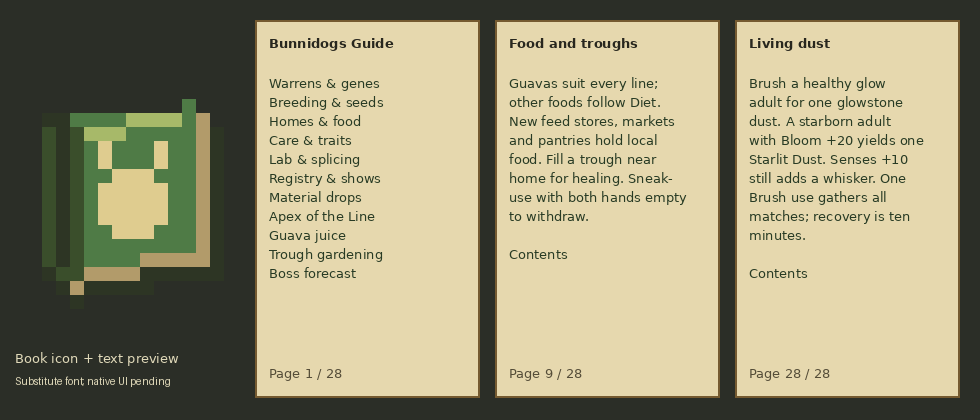
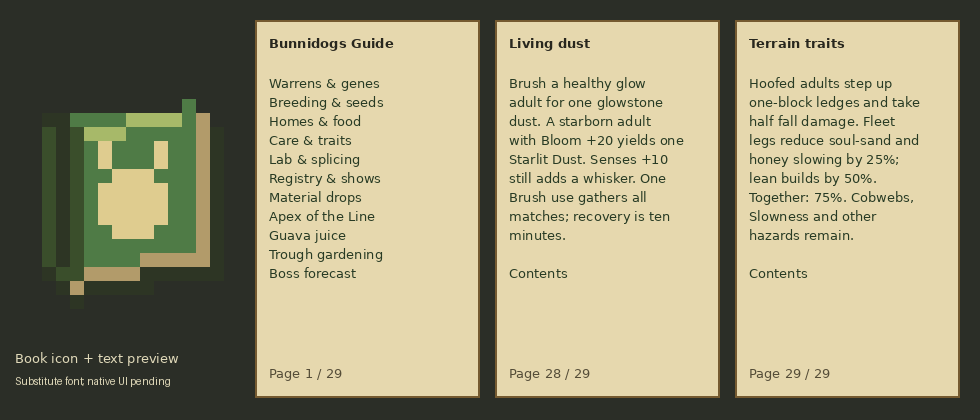
Add inherited stepping and slow-terrain benefits

diff --git a/tools/gametest/java/com/bunnidogs/mod/entity/AdaptationsGameTest.java b/tools/gametest/java/com/bunnidogs/mod/entity/AdaptationsGameTest.java
@@ -7,10 +7,14 @@ import com.bunnidogs.mod.genetics.Stats;
 import com.bunnidogs.mod.genetics.Adaptations;
 import com.bunnidogs.mod.registry.ModEntities;
 import net.minecraft.gametest.framework.GameTestHelper;
+import net.minecraft.core.BlockPos;
+import net.minecraft.server.level.ServerLevel;
 import net.minecraft.world.effect.MobEffectInstance;
 import net.minecraft.world.effect.MobEffects;
 import net.minecraft.world.entity.ai.attributes.Attributes;
 import net.minecraft.world.entity.EntitySpawnReason;
+import net.minecraft.world.entity.MoverType;
+import net.minecraft.world.level.block.Blocks;
 import net.minecraft.util.ProblemReporter;
 import net.minecraft.world.level.storage.TagValueInput;
 import net.minecraft.world.level.storage.TagValueOutput;
@@ -28,6 +32,7 @@ public final class AdaptationsGameTest {
         return dog;
     }
     public static void run(GameTestHelper h) {
+        terrain(h);
         var level = h.getLevel();
         var normal = dog(h,Genome.DEFAULT,1);
         var ember = dog(h,with(Gene.COAT,"ember"),2);
@@ -125,5 +130,65 @@ public final class AdaptationsGameTest {
                 && !Adaptations.luminous(Genome.DEFAULT.with(Gene.COAT,0,glowId)),"Recessive glow requires visible expression");
         h.assertTrue(Plain.effect(Gene.COAT,Gene.COAT.alleleNamed("slate")).contains("armor")
                 && Plain.effect(Gene.BUILD,Gene.BUILD.alleleNamed("chonker")).contains("knockback"),"Readouts must explain inherited physical defenses");
+    }
+    /** Exposes the native protected speed-factor calculation, without a production-only testing API. */
+    private static final class TerrainProbe extends Bunnidog {
+        TerrainProbe(ServerLevel level) { super(ModEntities.BUNNIDOG.get(),level); this.setNoAi(true); this.setAge(0); }
+        float speedFactor() { return this.getBlockSpeedFactor(); }
+    }
+    private static void terrain(GameTestHelper h) {
+        var level = h.getLevel();
+        for (int x = 0; x < 8; x++) for (int z = 0; z < 8; z++) h.setBlock(x,0,z,Blocks.STONE);
+        h.setBlock(4,1,3,Blocks.STONE); h.setBlock(4,1,4,Blocks.STONE);
+        var start = h.absoluteVec(new Vec3(3.2,1,3.5));
+        var probe = new TerrainProbe(level);
+        probe.setGenome(Genome.DEFAULT); probe.setStats(Stats.ZERO);
+        probe.setPos(start); probe.setOnGround(true);
+        probe.move(MoverType.SELF,new Vec3(1,0,0));
+        h.assertTrue(Math.abs(probe.getY()-start.y) < .001 && probe.getX() < start.x+.8,
+                "Ordinary step height must not walk straight up a full ledge");
+        probe.setGenome(with(Gene.LEGS,"hoofed")); probe.setPos(start); probe.setOnGround(true);
+        probe.move(MoverType.SELF,new Vec3(1,0,0));
+        h.assertTrue(Math.abs(probe.getY()-start.y-1) < .001 && probe.getX() > start.x+.9,
+                "Expressed hoofed legs must step up a real one-block collision without jumping");
+        probe.setGenome(with(Gene.LEGS,"springy").with(Gene.LEGS,1,Gene.LEGS.alleleNamed("hoofed").id()));
+        probe.setPos(start); probe.setOnGround(true); probe.move(MoverType.SELF,new Vec3(1,0,0));
+        h.assertTrue(Math.abs(probe.getY()-start.y) < .001,"Hidden hoofed legs must not retain their step bonus");
+        var slowPos = h.absolutePos(new BlockPos(2,0,5));
+        probe.setPos(Vec3.atBottomCenterOf(slowPos.above())); probe.setOnGround(true);
+        var leanFleet = with(Gene.BUILD,"lean").with(Gene.LEGS,0,Gene.LEGS.alleleNamed("fleet").id())
+                .with(Gene.LEGS,1,Gene.LEGS.alleleNamed("fleet").id());
+        for (var block : new net.minecraft.world.level.block.Block[]{Blocks.SOUL_SAND,Blocks.HONEY_BLOCK}) {
+            level.setBlock(slowPos,block.defaultBlockState(),2);
+            probe.setGenome(Genome.DEFAULT);
+            h.assertTrue(Math.abs(probe.speedFactor()-.4) < .001,"Ordinary bodies must retain native slow-block movement");
+            probe.setGenome(with(Gene.LEGS,"fleet"));
+            h.assertTrue(Math.abs(probe.speedFactor()-.55) < .001,"Fleet legs must reduce native slow-block loss by one quarter");
+            probe.setGenome(with(Gene.BUILD,"lean"));
+            h.assertTrue(Math.abs(probe.speedFactor()-.7) < .001,"Lean bodies must halve native slow-block loss");
+            probe.setGenome(leanFleet);
+            h.assertTrue(Math.abs(probe.speedFactor()-.85) < .001,"Independent terrain traits must combine without full immunity");
+        }
+        h.assertTrue(probe.addEffect(new MobEffectInstance(MobEffects.SLOWNESS,100)),"Terrain benefits must retain potion Slowness");
+        probe.getAttribute(Attributes.STEP_HEIGHT).setBaseValue(.8);
+        probe.getAttribute(Attributes.MOVEMENT_EFFICIENCY).setBaseValue(.1);
+        probe.setGenome(with(Gene.LEGS,"hoofed").with(Gene.BUILD,0,Gene.BUILD.alleleNamed("lean").id())
+                .with(Gene.BUILD,1,Gene.BUILD.alleleNamed("lean").id()));
+        for (int i = 0; i < 2; i++) {
+            var out = TagValueOutput.createWithContext(ProblemReporter.DISCARDING,level.registryAccess());
+            probe.saveWithoutId(out);
+            var loaded = new TerrainProbe(level);
+            loaded.load(TagValueInput.create(ProblemReporter.DISCARDING,level.registryAccess(),out.buildResult()));
+            h.assertTrue(Math.abs(loaded.getAttributeValue(Attributes.STEP_HEIGHT)-1.2) < .001
+                    && Math.abs(loaded.getAttributeValue(Attributes.MOVEMENT_EFFICIENCY)-.6) < .001,
+                    "Terrain modifiers must restore once alongside external bases");
+            probe = loaded;
+        }
+        probe.setGenome(Genome.DEFAULT);
+        h.assertTrue(Math.abs(probe.getAttributeValue(Attributes.STEP_HEIGHT)-.8) < .001
+                && Math.abs(probe.getAttributeValue(Attributes.MOVEMENT_EFFICIENCY)-.1) < .001,
+                "Gene edits must remove only inherited terrain modifiers");
+        // Leave the rest of the established adaptation case's spawn lane clear.
+        h.setBlock(4,1,3,Blocks.AIR); h.setBlock(4,1,4,Blocks.AIR);
     }
 }

diff --git a/src/main/java/com/bunnidogs/mod/entity/Bunnidog.java b/src/main/java/com/bunnidogs/mod/entity/Bunnidog.java
@@ -121,6 +121,8 @@ import net.minecraft.world.phys.Vec3;
 public class Bunnidog extends Animal implements net.neoforged.neoforge.common.IShearable {
     private static final Identifier TRAIT_ARMOR = Identifier.fromNamespaceAndPath("bunnidogs","inherited_armor");
     private static final Identifier TRAIT_KNOCKBACK = Identifier.fromNamespaceAndPath("bunnidogs","inherited_knockback_resistance");
+    private static final Identifier TRAIT_STEP = Identifier.fromNamespaceAndPath("bunnidogs","inherited_step_height");
+    private static final Identifier TRAIT_TERRAIN = Identifier.fromNamespaceAndPath("bunnidogs","inherited_movement_efficiency");
     // Base stats of an "average" bunnidog; the genes scale these (see Traits multipliers).
     public static final double BASE_HEALTH = 8.0D;
     public static final double BASE_SPEED = 0.25D;
@@ -288,7 +290,7 @@ public class Bunnidog extends Animal implements net.neoforged.neoforge.common.IS
         setBase(Attributes.MOVEMENT_SPEED, BASE_SPEED * t.speedMultiplier() * st.multiplier(Stat.SWIFTNESS));
         setBase(Attributes.JUMP_STRENGTH, BASE_JUMP * t.jumpMultiplier() * st.multiplier(Stat.LEAP));
         setBase(Attributes.FOLLOW_RANGE, BASE_FOLLOW_RANGE * t.hearingMultiplier() * st.multiplier(Stat.SENSES));
-        this.applyDefences();
+        this.applyAdaptations();
         this.setHealth(this.getMaxHealth() * fraction);
     }
 
@@ -300,11 +302,13 @@ public class Bunnidog extends Animal implements net.neoforged.neoforge.common.IS
     }
 
     /** Transient named modifiers preserve other mods' base values/equipment and cannot accumulate across reloads. */
-    protected final void applyDefences() {
-        this.defence(Attributes.ARMOR,TRAIT_ARMOR,Adaptations.armor(this.genome()));
-        this.defence(Attributes.KNOCKBACK_RESISTANCE,TRAIT_KNOCKBACK,Adaptations.knockbackResistance(this.genome()));
+    protected final void applyAdaptations() {
+        this.inheritedBonus(Attributes.ARMOR,TRAIT_ARMOR,Adaptations.armor(this.genome()));
+        this.inheritedBonus(Attributes.KNOCKBACK_RESISTANCE,TRAIT_KNOCKBACK,Adaptations.knockbackResistance(this.genome()));
+        this.inheritedBonus(Attributes.STEP_HEIGHT,TRAIT_STEP,Adaptations.stepBonus(this.genome()));
+        this.inheritedBonus(Attributes.MOVEMENT_EFFICIENCY,TRAIT_TERRAIN,Adaptations.movementEfficiency(this.genome()));
     }
-    private void defence(Holder<Attribute> attribute, Identifier id, double amount) {
+    private void inheritedBonus(Holder<Attribute> attribute, Identifier id, double amount) {
         var value = this.getAttribute(attribute);
         if (value == null) return;
         if (amount == 0) value.removeModifier(id);
@@ -746,7 +750,7 @@ public class Bunnidog extends Animal implements net.neoforged.neoforge.common.IS
         // Phase 5d: a save from before it, or an untagged bunnidog, has no tag. (The name shown above it is vanilla's own saved CustomName.)
         this.earTag = EarTag.parse(input.getStringOr(TAG_EAR_TAG, "")).orElse(null);
         super.readAdditionalSaveData(input);
-        if (!this.level().isClientSide()) this.applyDefences();
+        if (!this.level().isClientSide()) this.applyAdaptations();
         this.highestShowAward = Math.max(0, input.getIntOr("ShowAward", 0));
         this.nextGardenTick = this.level().getGameTime()+Math.clamp(input.getIntOr("GardenWait",0),0,
                 com.bunnidogs.mod.genetics.Gardening.REST_TICKS);

diff --git a/src/main/java/com/bunnidogs/mod/genetics/Adaptations.java b/src/main/java/com/bunnidogs/mod/genetics/Adaptations.java
@@ -15,6 +15,11 @@ public final class Adaptations {
     public static double knockbackResistance(Genome genome) {
         return switch (genome.expressed(Gene.BUILD).name()) { case "stocky" -> .15; case "chonker" -> .3; default -> 0; };
     }
+    public static double stepBonus(Genome genome) { return genome.expressed(Gene.LEGS).name().equals("hoofed") ? .4 : 0; }
+    public static double movementEfficiency(Genome genome) {
+        return (genome.expressed(Gene.LEGS).name().equals("fleet") ? .25 : 0)
+                + (genome.expressed(Gene.BUILD).name().equals("lean") ? .5 : 0);
+    }
     public static boolean luminous(Genome genome) { return genome.expressed(Gene.COAT).name().equals("glow"); }
     public static int blockLight(Genome genome, int environmental) { return luminous(genome) ? 15 : environmental; }
     public static String explanation(Gene gene, Allele allele) {
@@ -26,7 +31,9 @@ public final class Adaptations {
         if (gene == Gene.COAT && allele.name().equals("moss")) return "Immune to poison, but not wither or other magic.";
         if (gene == Gene.COAT && allele.name().equals("sand")) return "Immune to cactus damage; other thorns still hurt.";
         if (gene == Gene.COAT && allele.name().equals("void")) return "Immune to levitation; shulker impacts and falls still hurt.";
-        if (gene == Gene.LEGS && allele.name().equals("hoofed")) return "Takes half the usual fall damage.";
+        if (gene == Gene.LEGS && allele.name().equals("hoofed")) return "Takes half the usual fall damage. Adds 0.4 step height, letting ordinary adults walk up one-block ledges.";
+        if (gene == Gene.LEGS && allele.name().equals("fleet")) return "Reduces slowing from soul sand and honey by 25%; combines with lean build.";
+        if (gene == Gene.BUILD && allele.name().equals("lean")) return "Halves slowing from soul sand and honey; combines with fleet legs. Does not prevent cobwebs or Slowness.";
         if (gene == Gene.COAT && allele.name().equals("slate")) return "+4 natural armor against ordinary attacks; armor-bypassing damage still hurts.";
         if (gene == Gene.COAT && allele.name().equals("glow")) return "Self-lit coat in darkness; does not light nearby blocks. Brush healthy adults for one glowstone dust every ten minutes.";
         if (gene == Gene.BUILD && allele.name().equals("stocky")) return "+15% knockback resistance.";

diff --git a/art/gen_guide.py b/art/gen_guide.py
@@ -32,6 +32,7 @@ PAGES = {
     26: ('Furnished warrens', 'New dens have a trough with two guavas. Levels 3-5 have a central bell. New farms fit an empty enabled corner trough for matching crops. Crafted and old troughs need a hoe to enable work.'),
     27: ('Before the Apex', 'Hold Calipers in the main hand and a Tissue Sample in the other. Use an Apex Crucible for health, attacks and defenses. Empty-hand use lists missing offerings. Reading spends nothing.'),
     28: ('Living dust', 'Brush a healthy glow adult for one glowstone dust. A starborn adult with Bloom +20 yields one Starlit Dust. Senses +10 still adds a whisker. One Brush use gathers all matches; recovery is ten minutes.'),
+    29: ('Terrain traits', 'Hoofed adults step up one-block ledges and take half fall damage. Fleet legs reduce soul-sand and honey slowing by 25%; lean builds by 50%. Together: 75%. Cobwebs, Slowness and other hazards remain.'),
 }
 INDEX = {2:'Warrens & genes',4:'Breeding & seeds',8:'Homes & food',11:'Care & traits',15:'Lab & splicing',
          17:'Registry & shows',19:'Material drops',20:'Apex of the Line',24:'Guava juice',25:'Trough gardening',27:'Boss forecast'}
@@ -80,7 +81,7 @@ def main():
         bold = ImageFont.truetype('DejaVuSans-Bold.ttf',13)
     except OSError:
         font = bold = ImageFont.load_default()
-    for x,page in [(255,1),(495,9),(735,28)]:
+    for x,page in [(255,1),(495,28),(735,29)]:
         d.rectangle((x,20,x+224,397),fill=(230,216,174),outline=(117,90,48),width=2)
         d.text((x+14,35), 'Bunnidogs Guide' if page == 1 else PAGES[page][0], font=bold,fill=(40,39,30))
         if page == 1: body = '\n'.join(INDEX.values())

diff --git a/src/main/java/com/bunnidogs/mod/item/FieldGuideItem.java b/src/main/java/com/bunnidogs/mod/item/FieldGuideItem.java
@@ -11,7 +11,7 @@ import net.minecraft.world.item.component.WrittenBookContent;
 
 /** Native book UI/packets, translated pages and local page links; no custom screen or payload. */
 public final class FieldGuideItem extends WrittenBookItem {
-    public static final int PAGE_COUNT = 28;
+    public static final int PAGE_COUNT = 29;
     public FieldGuideItem(Properties properties) {
         super(properties.component(DataComponents.WRITTEN_BOOK_CONTENT, content()));
     }

diff --git a/src/main/java/com/bunnidogs/mod/entity/Apex.java b/src/main/java/com/bunnidogs/mod/entity/Apex.java
@@ -60,7 +60,7 @@ public final class Apex extends Bunnidog implements Enemy {
         base(Attributes.JUMP_STRENGTH, combat.jump());
         base(Attributes.ATTACK_DAMAGE, combat.damage());
         base(Attributes.FOLLOW_RANGE, combat.awareness());
-        this.applyDefences();
+        this.applyAdaptations();
         this.setHealth(this.getMaxHealth() * fraction);
     }
     private void base(Holder<Attribute> attribute, double value) {

diff --git a/docs/CARE_SPECS.md b/docs/CARE_SPECS.md
@@ -161,6 +161,35 @@ expressed/carried light selection and retain all approved mesh invariants.
 The software lighting comparison was inspected; native in-game lighting and
 combat balance still need gameplay review.
 
+## A4: native terrain movement
+
+Expressed hoofed legs add **0.4 native Step Height**, taking an ordinary adult
+from 0.6 to 1.0 blocks so it can walk up a full ledge without jumping. Their
+existing half fall damage remains. This does not confer climbing, a higher
+jump, safe falls or passage through fences; native collision clearance applies.
+
+Expressed fleet legs add **0.25 Movement Efficiency**, and lean builds add
+**0.5**. Native slow-block math combines these independent genes: ordinary
+soul-sand/honey speed factor 0.4 becomes 0.55 with fleet, 0.7 with lean and
+0.85 with both. This reduces the lost speed by 25%, 50% or 75%; it is not an
+equivalent increase to the creature's base speed. Cobweb entanglement, potion
+Slowness, terrain damage and other vulnerabilities remain. Native attributes
+also govern compatible modded blocks and retain their own caps.
+
+Both use distinct named transient bonuses beside existing attributes, rather
+than replacing external bases/equipment. They update with expressed genes and
+restore once after native loading, alongside the existing defenses. Apex copies
+inherit the same rules. No synced flag, gene/allele reorder, save field, body
+geometry or network-version change is needed. Gene hovers and the new 29th
+Field Guide page explain the benefits and limits.
+
+The extended native adaptation case checks actual full-block collision stepping,
+hidden hoofed refusal, native soul-sand/honey speed factors, retained Slowness,
+two loads preserving external bases and gene edits removing only their bonuses.
+Actual build and all nineteen server scenarios pass; guide preview inspected.
+Client movement feel, natural terrain travel and long-term balance remain
+gameplay review.
+
 ## Evidence and follow-up
 
 The combined Gradle build and real GameTest server pass. Tests use native entity

diff --git a/docs/ROADMAP.md b/docs/ROADMAP.md
@@ -16,6 +16,11 @@ and mouths, **H3b** house floor Nests. V1a, V1b, H3 and H4 WORK.
 
 ## Latest implemented work (gameplay pending)
 
+A4 adds native one-block stepping for ordinary hoofed adults and partial
+soul-sand/honey slowing resistance from fleet legs and lean builds. Named
+bonuses preserve external attributes and update across gene edits/reloads.
+Gene hovers and the 29-page guide explain retained hazards. See `CARE_SPECS.md`.
+
 L6 supplies newly placed underground and surface food-store barrels with modest
 lineage-appropriate loot, preserving old tables and every existing container.
 All eight tables guarantee a few guavas and retain the independent guide chance.
@@ -130,7 +135,7 @@ filling a quota, and honor any explicit pause in the current request.
 | Item | What | Needs | Spec |
 |---|---|---|---|
 | Further living harvests | Other fitting renewable materials beyond fleece, whiskers and glow/starborn dust | C1–C5 | `CARE_SPECS.md`; define each source/yield before coding |
-| Additional lineage behavior | Useful cave/terrain adaptations beyond current fire/cold/fall/poison/cactus/levitation rules | A1/A2 | Follow expressed genes; preserve native hazards and breeding tradeoffs |
+| Further lineage behavior | Other useful habitat routines beyond existing protection, defenses and terrain benefits | A1–A4 | Follow expressed genes; preserve native hazards and breeding tradeoffs |
 
 ## Ideas without a spec (design before implementing)
 Further settlement life beyond troughs, bell visits and gardening; further renewable materials and lineage adaptations. Gene Splicer G1, its table preview T5, Purebred Registry G2 and Show Ring G3 and Apex G4 are implemented. Native leads and Nest reassignment are H5; live tissue samples, woolly fleece, brushed whiskers and inherited protections are C1–C3/A1–A2. More ideas: `docs/DESIGN.md`, section "Ideas".

diff --git a/START_HERE.md b/START_HERE.md
@@ -45,6 +45,21 @@ builds from GitHub. Actions now uploads the validated JAR as a run artifact.
 
 ## Current gameplay work — 2026-10-16
 
+**A4 — inherited terrain movement:** hoofed legs add 0.4 native step height,
+allowing ordinary adults to walk up a full block while retaining their half
+fall damage. Fleet legs/lean builds reduce soul-sand/honey slowing by 25%/50%,
+combining to 75% less lost speed. Cobwebs, Slowness and other hazards remain.
+Named transient bonuses preserve external attributes, update on gene edits and
+restore once after loading; Apex copies inherit them. Approved anatomy, stats,
+gene order, animal fields and protocol 6 remain compatible. Gene hovers and
+the Field Guide explain the benefits; the guide now has 29 pages.
+
+The existing native adaptation case now checks real ledge collision, hidden
+traits, native slow-block math, Slowness and repeated saves with external bases.
+Actual build and all nineteen native scenarios pass; guide preview inspected.
+Client movement feel and long-term terrain balance remain gameplay review.
+See `docs/CARE_SPECS.md` A4.
+
 **Settlement L6 — local supplies:** newly placed underground pantries and
 surface feed-store/market barrels use eight lineage food tables. Each has
 1–2 guavas, 1–3 small local-food rolls and the independent 35% Field Guide

diff --git a/docs/FIELD_GUIDE.md b/docs/FIELD_GUIDE.md
@@ -6,6 +6,7 @@ bell gatherings, living care, adaptations, table/splicing, stable lines,
 shows, materials, legendary drops, the Apex and infused juice.
 The gardening pages include Calipers work status and new fitted corner troughs.
 Living-dust care has its own page explaining combined yields and shared recovery.
+The terrain page explains inherited stepping and partial slow-block resistance.
 
 Craft one with a vanilla book and any guava (the existing bunnidog-food tag).
 Obtaining a guava unlocks its recipe. An additional independent 35% pantry loot
@@ -16,7 +17,7 @@ containers are not refilled and player inventories are not edited. See
 
 ## Presentation and saves
 
-Twenty-eight pages use the ordinary written-book screen. Page 1 has eleven clickable
+Twenty-nine pages use the ordinary written-book screen. Page 1 has eleven clickable
 chapter links; every other page links back to the contents. Local page changes
 are the only click action. All text is translatable through en_us.json. The
 book stacks to one and appears beside the Calipers in Tools & Utilities.
